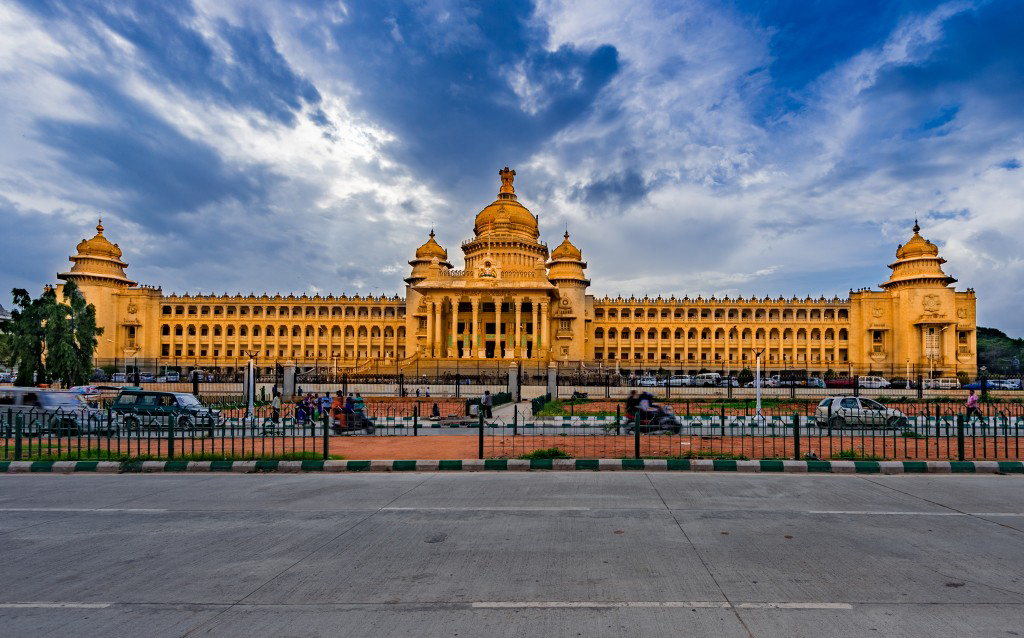
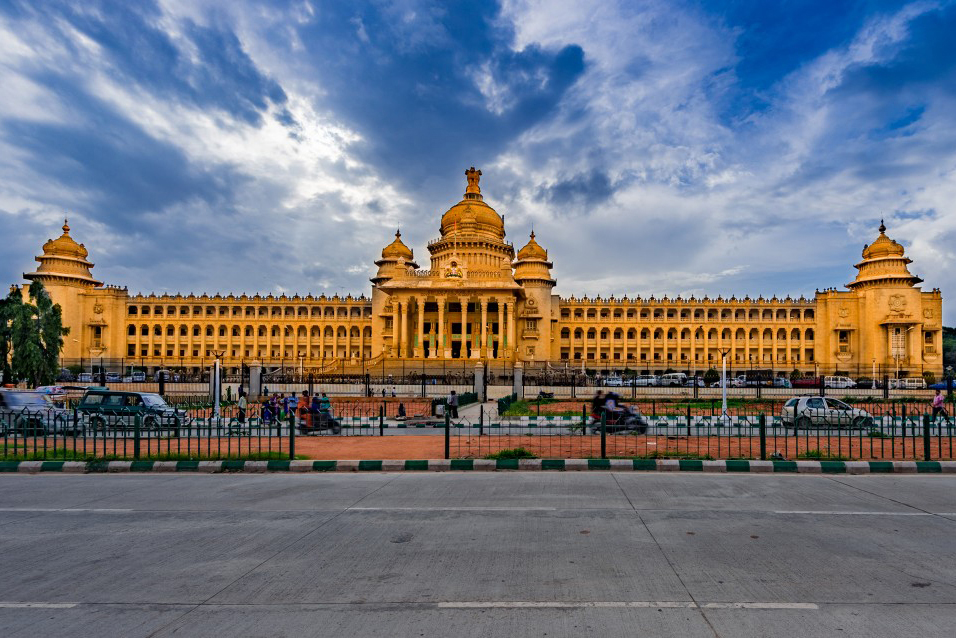
commit

diff --git a/index.html b/index.html
@@ -150,7 +150,7 @@
                 </div>
                 <div class="col span-1-of-4 box">
                     <img src="resources/img/banglore.jpg">
-                    <h3>Agra</h3>
+                    <h3>Banglore</h3>
                     <div class="city-feature">
                         <ion-icon name="person"></ion-icon>
                         3700+ happy customers
@@ -166,7 +166,7 @@
                 </div>
                 <div class="col span-1-of-4 box">
                     <img src="resources/img/delhi.jpg">
-                    <h3>Agra</h3>
+                    <h3>Delhi</h3>
                     <div class="city-feature">
                         <ion-icon name="person"></ion-icon>
                         2200+ happy customers
@@ -182,7 +182,7 @@
                 </div>
                 <div class="col span-1-of-4 box">
                     <img src="resources/img/lucknow.jpg">
-                    <h3>Agra</h3>
+                    <h3>Lucknow</h3>
                     <div class="city-feature">
                         <ion-icon name="person"></ion-icon>
                         2300+ happy customers

diff --git a/resources/css/style.css b/resources/css/style.css
@@ -231,5 +231,5 @@ h3{
 
 .box img{
     width: 100%;
-    height: 200px;
+    height: auto;
 }
